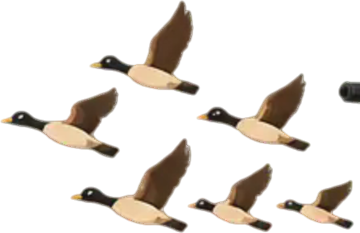
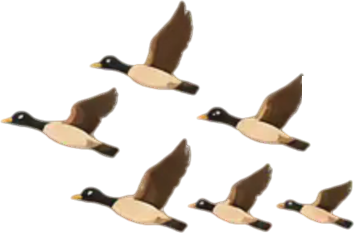
Alas animadas, sol y luna, clima en capas, Belén, tamaños y ajustes de Santa/Grinch
Claude-Session: https://claude.ai/code/session_01HzcLU7UAVJ8SL338GQnGNt

Changed region(s): [[0.9167, 0.3305, 1.0, 0.4506], [0.825, 0.3305, 0.8556, 0.4206]]

diff --git a/index.html b/index.html
@@ -43,6 +43,12 @@
   .scene .sky{position:absolute;inset:0;transition:opacity 8s ease-in-out}
   .scene .sky.day{background:linear-gradient(180deg,#3E8FD9 0%,#7CC5F2 60%,#BFE6FF 100%);opacity:0}
   .scene.day .sky.day{opacity:1}
+  .scene .sun{position:absolute;left:80%;top:24%;width:34px;height:34px;border-radius:50%;background:radial-gradient(circle at 45% 40%,#FFFBE6 0%,#FFE98A 55%,#FFC83D 100%);box-shadow:0 0 14px 6px rgba(255,225,120,.55),0 0 40px 18px rgba(255,210,90,.22);transform:translate(-50%,-50%);animation:drift 70s ease-in-out infinite alternate}
+  .scene .moon{position:absolute;left:80%;top:24%;width:30px;height:30px;transform:translate(-50%,-50%);filter:drop-shadow(0 0 6px rgba(255,244,207,.55));animation:drift 80s ease-in-out infinite alternate}
+  .scene .moon svg{width:100%;height:100%;display:block}
+  .scene .moon .sh{transform:translateX(var(--mx,0px));transition:transform 1s}
+  .scene .moon.p0{opacity:.55}
+  @keyframes drift{from{transform:translate(-50%,-50%)}to{transform:translate(-50%,calc(-50% - 7px)) translateX(-10px)}}
   .scene .starswrap{position:absolute;inset:0;transition:opacity 8s ease-in-out;pointer-events:none}
   .scene.day .starswrap{opacity:0}
   .scene .layer{position:absolute;inset:0;background-repeat:repeat-x;background-size:400px 100%}
@@ -52,7 +58,14 @@
   @keyframes twinkle{0%,100%{opacity:.95}50%{opacity:.25}}
   .scene .belen{position:absolute;left:22%;top:13%;width:26px;height:34px;transform:translate(-50%,-50%);animation:belen 4s ease-in-out infinite}
   .scene .belen svg{display:block;width:100%;height:100%;overflow:visible}
-  @keyframes belen{0%,100%{transform:translate(-50%,-50%) scale(1);filter:drop-shadow(0 0 4px rgba(255,240,180,.8))}50%{transform:translate(-50%,-50%) scale(1.12);filter:drop-shadow(0 0 9px rgba(255,240,180,1))}}
+  @keyframes belen{0%,100%{transform:translate(-50%,-50%) scale(1);filter:drop-shadow(0 0 7px rgba(255,240,180,.95)) drop-shadow(0 0 16px rgba(255,230,150,.6))}50%{transform:translate(-50%,-50%) scale(1.14);filter:drop-shadow(0 0 13px rgba(255,240,180,1)) drop-shadow(0 0 26px rgba(255,230,150,.85))}}
+  .scene .belen .rays{transform-box:fill-box;transform-origin:center;animation:belenrays 2.6s ease-in-out infinite alternate}
+  .scene .belen .rays2{transform-box:fill-box;transform-origin:center;animation:belenspin 14s linear infinite}
+  .scene .belen .tw{transform-box:fill-box;transform-origin:center;animation:beltw 1.3s ease-in-out infinite alternate}
+  .scene .belen .tw:nth-child(2){animation-delay:-.5s} .scene .belen .tw:nth-child(3){animation-delay:-.9s}
+  @keyframes belenrays{from{transform:scale(.85) rotate(-6deg);opacity:.75}to{transform:scale(1.18) rotate(6deg);opacity:1}}
+  @keyframes belenspin{to{transform:rotate(360deg)}}
+  @keyframes beltw{from{transform:scale(.5);opacity:.4}to{transform:scale(1.3);opacity:1}}
   .scene .fugaz{position:absolute;width:90px;height:2px;border-radius:2px;background:linear-gradient(90deg,rgba(255,255,255,0),#fff);transform-origin:100% 50%;transform:rotate(-20deg);opacity:0;animation:fugaz 1.3s ease-out forwards;pointer-events:none}
   @keyframes fugaz{0%{opacity:0;transform:rotate(-20deg) translateX(0)}10%{opacity:1}100%{opacity:0;transform:rotate(-20deg) translateX(-260px)}}
   .scene .plane{position:absolute;z-index:3;left:38%;top:50%;width:147px;height:auto;transform:translate(-50%,-50%);animation:fly 5s ease-in-out infinite;filter:drop-shadow(0 6px 6px rgba(0,0,0,.35))}
@@ -60,12 +73,22 @@
   .scene.sm{height:110px} .scene.sm .plane{width:105px}
   @keyframes pass{to{transform:translateX(-720px)}}
   /* lluvia y nieve suaves, cada tanto */
-  .scene .weather{position:absolute;inset:-30% -10% 0 -10%;z-index:5;pointer-events:none;opacity:0;transition:opacity 4s ease;background-repeat:repeat}
+  .scene .weather{position:absolute;inset:-30% -10% 0 -10%;z-index:5;pointer-events:none;opacity:0;transition:opacity 4s ease}
   .scene .weather.on{opacity:1}
-  .scene .weather.rain{background-image:radial-gradient(1px 9px at 20px 12px,rgba(255,255,255,.55),transparent),radial-gradient(1px 8px at 64px 40px,rgba(255,255,255,.45),transparent),radial-gradient(1px 10px at 100px 70px,rgba(255,255,255,.5),transparent),radial-gradient(1px 7px at 140px 25px,rgba(255,255,255,.4),transparent);background-size:120px 80px;transform:rotate(9deg) scale(1.2);animation:rain .55s linear infinite}
-  @keyframes rain{to{background-position:0 90px}}
-  .scene .weather.snow{background-image:radial-gradient(2.5px 2.5px at 18px 20px,#fff,transparent),radial-gradient(2px 2px at 70px 60px,rgba(255,255,255,.85),transparent),radial-gradient(3px 3px at 120px 30px,#fff,transparent),radial-gradient(2px 2px at 150px 100px,rgba(255,255,255,.8),transparent),radial-gradient(2.5px 2.5px at 45px 110px,#fff,transparent),radial-gradient(2px 2px at 100px 130px,rgba(255,255,255,.8),transparent);background-size:130px 120px;animation:snow 5s linear infinite}
-  @keyframes snow{0%{background-position:0 0}50%{background-position:14px 75px}100%{background-position:0 150px}}
+  .scene .weather .wl{position:absolute;inset:0;background-repeat:repeat}
+  .scene .weather.rain .wl{background-image:radial-gradient(1px 9px at 20px 12px,rgba(255,255,255,.55),transparent),radial-gradient(1px 8px at 64px 40px,rgba(255,255,255,.45),transparent),radial-gradient(1px 10px at 100px 70px,rgba(255,255,255,.5),transparent),radial-gradient(1px 7px at 140px 25px,rgba(255,255,255,.4),transparent);background-size:120px 80px}
+  .scene .weather.rain{transform:rotate(9deg) scale(1.2)}
+  .scene .weather.rain .l1{animation:rainA .42s linear infinite;opacity:.95}
+  .scene .weather.rain .l2{background-size:170px 120px;animation:rainB .7s linear infinite;opacity:.6}
+  .scene .weather.rain .l3{background-size:230px 160px;animation:rainC 1.05s linear infinite;opacity:.35}
+  @keyframes rainA{to{background-position:0 80px}} @keyframes rainB{to{background-position:0 120px}} @keyframes rainC{to{background-position:0 160px}}
+  .scene .weather.snow .wl{background-image:radial-gradient(2.5px 2.5px at 18px 20px,#fff,transparent),radial-gradient(2px 2px at 70px 60px,rgba(255,255,255,.85),transparent),radial-gradient(3px 3px at 120px 30px,#fff,transparent),radial-gradient(2px 2px at 150px 100px,rgba(255,255,255,.8),transparent),radial-gradient(2.5px 2.5px at 45px 110px,#fff,transparent),radial-gradient(2px 2px at 100px 130px,rgba(255,255,255,.8),transparent);background-size:130px 120px}
+  .scene .weather.snow .l1{animation:snowA 4s linear infinite}
+  .scene .weather.snow .l2{background-size:190px 170px;animation:snowB 7.5s linear infinite;opacity:.7}
+  .scene .weather.snow .l3{background-size:90px 80px;animation:snowC 11s linear infinite;opacity:.45;filter:blur(.4px)}
+  @keyframes snowA{0%{background-position:0 0}50%{background-position:16px 120px}100%{background-position:0 240px}}
+  @keyframes snowB{0%{background-position:0 0}50%{background-position:-22px 170px}100%{background-position:0 340px}}
+  @keyframes snowC{0%{background-position:0 0}50%{background-position:10px 80px}100%{background-position:0 160px}}
   /* objetos que pasan volando (sprites del usuario) con efectos animados */
   .scene .obj{position:absolute;left:100%;animation:pass linear forwards;will-change:transform;line-height:0}
   .scene .obj > img{display:block;width:100%;height:auto}
@@ -86,6 +109,8 @@
   @keyframes rotor{0%{transform:scaleX(1);opacity:.9}50%{transform:scaleX(.12);opacity:.5}100%{transform:scaleX(1);opacity:.9}}
   /* Papá Noel: renos con vuelo propio, regalos que caen */
   .scene .obj .part{position:absolute;top:0;animation:hover ease-in-out infinite alternate}
+  .scene .obj .part img.wing{position:absolute;left:0;top:0;width:100%;animation:flap ease-in-out infinite alternate}
+  @keyframes flap{from{transform:scaleY(1) rotate(0)}to{transform:scaleY(.28) rotate(-4deg)}}
   .scene .obj .part img{display:block;width:100%;height:auto}
   @keyframes hover{from{transform:translateY(-4%)}to{transform:translateY(5%)}}
   .scene .gift{position:absolute;z-index:4;animation:giftx 2.6s linear forwards;pointer-events:none}
@@ -394,7 +419,7 @@ function voucher(v, returning){
 
 /* ---------- Escena: el avión vuela hacia la derecha; el cielo y lo que pasa se mueven en contra ---------- */
 function scene(cls=""){
-  return `<div class="scene ${cls}${sceneDay?" day":""}" id="scene"><div class="sky day"></div><div class="starswrap"><div class="layer stars"></div><div class="layer stars b"></div><span class="belen"><svg viewBox="-20 -20 40 52"><defs><radialGradient id="bg1"><stop offset="0" stop-color="#FFF6D0" stop-opacity=".9"/><stop offset="1" stop-color="#FFF6D0" stop-opacity="0"/></radialGradient><linearGradient id="bt" x1="0" y1="0" x2="0" y2="1"><stop offset="0" stop-color="#FFF3C4" stop-opacity=".9"/><stop offset="1" stop-color="#FFF3C4" stop-opacity="0"/></linearGradient></defs><circle r="13" fill="url(#bg1)"/><circle r="9" fill="none" stroke="#FFF3C4" stroke-opacity=".35" stroke-width=".8"/><path d="M-1.6 4L0 30L1.6 4Z" fill="url(#bt)"/><path d="M0 -18L2.4 -2.4L12 0L2.4 2.4L0 12L-2.4 2.4L-12 0L-2.4 -2.4Z" fill="#FFE9A3"/><path d="M0 -18L2.4 -2.4L12 0L2.4 2.4L0 12L-2.4 2.4L-12 0L-2.4 -2.4Z" fill="#FFF3C4"/><path d="M-6.5 -6.5L-1.2 -1.2L0 0L-1.2 1.2L-6.5 6.5L-1.2 1.2L0 0L1.2 -1.2Z M6.5 -6.5L1.2 -1.2L0 0L1.2 1.2L6.5 6.5L1.2 1.2L0 0L-1.2 1.2Z" fill="#FFF3C4" fill-opacity=".8"/><path d="M0 -8L1 -1L8 0L1 1L0 8L-1 1L-8 0L-1 -1Z" fill="#fff"/><g fill="#FFF3C4"><path d="M-14 -11L-13.3 -9.3L-11.6 -8.6L-13.3 -7.9L-14 -6.2L-14.7 -7.9L-16.4 -8.6L-14.7 -9.3Z"/><path d="M13 -13L13.6 -11.6L15 -11L13.6 -10.4L13 -9L12.4 -10.4L11 -11L12.4 -11.6Z"/><path d="M12 9L12.5 10.2L13.7 10.7L12.5 11.2L12 12.4L11.5 11.2L10.3 10.7L11.5 10.2Z"/></g></svg></span></div><img class="plane" src="/plane.png" alt="" width="760" height="224"><div class="weather" id="weather"></div></div>`;
+  return `<div class="scene ${cls}${sceneDay?" day":""}" id="scene"><div class="sky day"><span class="sun"></span></div><div class="starswrap"><span class="moon p2" id="moon"><svg viewBox="-20 -20 40 40"><circle r="14" fill="#FFF4CF"/><circle r="4" cx="-4" cy="-3" fill="#EFE2B8" opacity=".5"/><circle r="2.5" cx="5" cy="4" fill="#EFE2B8" opacity=".5"/><circle r="1.6" cx="2" cy="-7" fill="#EFE2B8" opacity=".5"/><circle class="sh" r="14.6" fill="#141A4A"/><circle r="14" fill="none" stroke="#FFF4CF" stroke-opacity=".45" stroke-width=".7"/></svg></span><div class="layer stars"></div><div class="layer stars b"></div><span class="belen"><svg viewBox="-20 -20 40 52"><defs><radialGradient id="bg1"><stop offset="0" stop-color="#FFF6D0" stop-opacity=".9"/><stop offset="1" stop-color="#FFF6D0" stop-opacity="0"/></radialGradient><linearGradient id="bt" x1="0" y1="0" x2="0" y2="1"><stop offset="0" stop-color="#FFF3C4" stop-opacity=".9"/><stop offset="1" stop-color="#FFF3C4" stop-opacity="0"/></linearGradient></defs><circle r="13" fill="url(#bg1)"/><circle r="9" fill="none" stroke="#FFF3C4" stroke-opacity=".35" stroke-width=".8"/><path d="M-1.6 4L0 30L1.6 4Z" fill="url(#bt)"/><g class="rays"><path d="M0 -18L2.4 -2.4L12 0L2.4 2.4L0 12L-2.4 2.4L-12 0L-2.4 -2.4Z" fill="#FFE9A3"/></g><path d="M0 -18L2.4 -2.4L12 0L2.4 2.4L0 12L-2.4 2.4L-12 0L-2.4 -2.4Z" fill="#FFF3C4"/><g class="rays2"><path d="M-6.5 -6.5L-1.2 -1.2L0 0L-1.2 1.2L-6.5 6.5L-1.2 1.2L0 0L1.2 -1.2Z M6.5 -6.5L1.2 -1.2L0 0L1.2 1.2L6.5 6.5L1.2 1.2L0 0L-1.2 1.2Z" fill="#FFF3C4" fill-opacity=".8"/></g><path d="M0 -8L1 -1L8 0L1 1L0 8L-1 1L-8 0L-1 -1Z" fill="#fff"/><g fill="#FFF3C4"><path class="tw" d="M-14 -11L-13.3 -9.3L-11.6 -8.6L-13.3 -7.9L-14 -6.2L-14.7 -7.9L-16.4 -8.6L-14.7 -9.3Z"/><path class="tw" d="M13 -13L13.6 -11.6L15 -11L13.6 -10.4L13 -9L12.4 -10.4L11 -11L12.4 -11.6Z"/><path class="tw" d="M12 9L12.5 10.2L13.7 10.7L12.5 11.2L12 12.4L11.5 11.2L10.3 10.7L11.5 10.2Z"/></g></svg></span></div><img class="plane" src="/plane.png" alt="" width="760" height="224"><div class="weather" id="weather"><div class="wl l1"></div><div class="wl l2"></div><div class="wl l3"></div></div></div>`;
 }
 // Nubes con varios lóbulos, sombra suave abajo y brillo arriba
 const CLOUDS = [
@@ -419,9 +444,14 @@ const FX = {
   rotor:(x,y,s)=>`<i class="fx" style="left:${x}%;top:${y}%"><span class="rotor" style="--s:${s}em"></span></i>`
 };
 const RED="#FF3B3B", GRN="#3BFF7A", WHT="#FFFFFF";
+// alas que aletean: [pivotes en % por ala, duración del aleteo en s]
+const WINGS = {
+  gansos:[[[44,34],[28,53],[15,56],[72,49],[42,81],[67,83],[92,85]], .42],
+  ciguena:[[[62,48]], .75], pterodactilo:[[[48,58],[57,54]], 1.1], pegaso:[[[60,49]], .85], colibri:[[[56,47]], .07]
+};
 const OBJS = [
   ["xwing",28, FX.flame(96,30,16,180)+FX.flame(96,70,16,180)],
-  ["tie",20,""], ["enterprise",190, FX.glow(98,22,10,8,180)+FX.glow(76,84,8,6,180)], ["falcon",74, FX.glow(99,50,12,30,180)],
+  ["tie",20,""], ["enterprise",95, FX.glow(98,22,10,8,180)+FX.glow(76,84,8,6,180)], ["falcon",74, FX.glow(99,50,12,30,180)],
   ["hubble",30, FX.blink(36,3,RED)+FX.blink(36,97,GRN,.5)+FX.blink(90,48,WHT,1)],
   ["gansos",30,""], ["boba",18, FX.flame(98,52,22,180)], ["superman",18,""], ["et",18,""], ["frisbee",12,""], ["pelota",12,""],
   ["dron",12, FX.rotor(12,7,30)+FX.rotor(86,7,30)],
@@ -429,7 +459,7 @@ const OBJS = [
   ["webb",44, FX.blink(50,4,RED)+FX.blink(8,80,GRN,.7)+FX.blink(95,80,WHT,1.3)],
   ["iss",170, FX.blink(3,30,RED)+FX.blink(97,30,GRN,.5)+FX.blink(50,42,WHT,1)],
   ["grinch",20, FX.prop(4,50,30,.25)], ["helicoptero",28, FX.rotor(47,17,70)+FX.prop(94,50,14,.2)], ["globo",40,""], ["avionpapel",12,""], ["parapente",22,""], ["wingsuit",18,""],
-  ["saturn",30, FX.flame(50,99,40,-90)],
+  ["saturn",70, FX.flame(99,50,40,180)],
   ["acrobatico",18, FX.prop(5,47,30,.25)], ["ciguena",14,""], ["plusultra",46, FX.prop(16,20,22,.3)], ["spirit",30, FX.prop(6,50,28,.25)],
   ["aladelta",22,""], ["wright",26, FX.prop(44,52,22,.25)],
   ["sputnik",12, FX.blink(44,42,RED)+FX.blink(56,52,WHT,.6)], ["pterodactilo",22,""],
@@ -490,36 +520,40 @@ function startScene(){
     flyCount++;
     const front = Math.random() < 0.5, dur = (9 + Math.random()*5) * (1 + Math.random()*0.5), top = 4 + Math.random()*50;
     if(flyCount % 5 === 0){
-      // Papá Noel: renos con vuelo propio, regalos cada tanto y, la mitad de las veces, el Grinch persiguiéndolo
+      // Papá Noel: renos con vuelo propio, regalos cada tanto y, 1 de cada 5 veces, el Grinch persiguiéndolo
       const w = 64 * (0.9 + Math.random()*0.3) * (front ? 1.25 : 0.85);
       const santa = spawn(santaHTML(), w, Math.min(top, 30), dur, front);
-      // 3 regalos por pasada, al 25 %, 50 % y 75 % del recorrido
-      [0.25, 0.5, 0.75].forEach(f=>sceneTimers.push(setTimeout(()=>{ const s = sc(); if(!s || !santa || !santa.isConnected) return;
+      // 3 regalos por pasada, de a tres (una ráfaga a mitad del recorrido)
+      const gf = 0.4 + Math.random()*0.2;
+      [gf, gf + 0.18/dur, gf + 0.36/dur].forEach((f,gi)=>sceneTimers.push(setTimeout(()=>{ const s = sc(); if(!s || !santa || !santa.isConnected) return;
         // el regalo sale del trineo, sigue el avance horizontal y cae con gravedad hasta salir por abajo
         const sr = santa.getBoundingClientRect(), r = s.getBoundingClientRect();
         const g = document.createElement("i"); g.className = "gift"; g.innerHTML = `<i>${GIFTS[Math.floor(Math.random()*GIFTS.length)]}</i>`;
         g.style.left = (sr.left - r.left + sr.width*0.8) + "px"; g.style.top = (sr.top - r.top + sr.height*0.55) + "px"; g.style.width = Math.max(8, Math.round(w*0.13)) + "px";
-        g.style.setProperty("--dx", (-720/dur*2.6*0.9).toFixed(0) + "px");
+        g.style.setProperty("--dx", (-720/dur*2.6*(0.8 + gi*0.12)).toFixed(0) + "px");
         g.addEventListener("animationend", e=>{ if(e.target === g) g.remove(); }); s.appendChild(g); }, dur*1000*f)));
-      if(Math.random() < 0.5){
+      if(Math.random() < 0.2){
         // el Grinch aparece por la derecha, bastante atrás, con su propio vaivén
         const g = OBJS.find(o=>o[0]==="grinch");
-        spawn(`<span class="part" style="left:0;width:100%;animation-duration:1.1s"><img src="/obj/grinch.png" alt="">${g[2]}</span>`, w*0.4, Math.min(top, 30) + 6, dur, front, 2.6);
+        spawn(`<span class="part" style="left:0;width:100%;animation-duration:1.1s"><img src="/obj/grinch.png" alt="">${g[2]}</span>`, w*0.4, Math.min(top, 30) + 6, dur*0.86, front, 4.2); // sale más atrás y, al ir más rápido, se va acercando
       }
     }else{
       const [name, base, fx] = nextObj();
-      const w = Math.max(10, Math.round(base * (0.8 + Math.random()*0.4) * (front ? 1.25 : 0.85)));
+      const w = Math.max(12, Math.round((base < 30 ? base*1.2 : base) * (0.8 + Math.random()*0.4) * (front ? 1.25 : 0.85))); // los chicos, un 20 % más
       const img = new Image(); img.src = `/obj/${name}.png`;
       // todo tiene un vaivén sutil, nada pasa recto
-      const go = ()=>spawn(`<span class="part" style="left:0;width:100%;animation-duration:${(1.6+Math.random()*1.8).toFixed(2)}s"><img src="/obj/${name}.png" alt="">${fx}</span>`, w, top, dur, front);
+      const wg = WINGS[name];
+      const body = wg ? `<img src="/obj/${name}_body.png" alt="">` + wg[0].map((p,i)=>`<img class="wing" src="/obj/${name}_w${i+1}.png" alt="" style="transform-origin:${p[0]}% ${p[1]}%;animation-duration:${wg[1]}s;animation-delay:-${(Math.random()*wg[1]).toFixed(2)}s">`).join("") : `<img src="/obj/${name}.png" alt="">`;
+      const go = ()=>spawn(`<span class="part" style="left:0;width:100%;animation-duration:${(1.6+Math.random()*1.8).toFixed(2)}s">${body}${fx}</span>`, w, top, dur, front);
       if(img.complete) go(); else { img.onload = go; img.onerror = ()=>{}; }
     }
-    sceneTimers.push(setTimeout(thing, 10000 + Math.random()*5000)); };
+    sceneTimers.push(setTimeout(thing, 12000 + Math.random()*6000)); };
   const shooting = ()=>{ const s = sc(); if(!s || sceneDay) return;
     const f = document.createElement("i"); f.className = "fugaz"; f.style.left = (30 + Math.random()*60) + "%"; f.style.top = (8 + Math.random()*30) + "%";
     f.addEventListener("animationend", ()=>f.remove()); s.querySelector(".starswrap").appendChild(f); };
   const dayNight = ()=>{ const s = sc(); if(!s) return;
     sceneDay = !sceneDay; s.classList.toggle("day", sceneDay);
+    if(!sceneDay){ const m = $("#moon"); if(m){ const ph = Math.floor(Math.random()*4); m.className = "moon p" + ph; m.style.setProperty("--mx", ["0px","-9px","40px","9px"][ph]); } } // luna: nueva, creciente, llena, menguante
     if(!sceneDay && Math.random() < 0.5) sceneTimers.push(setTimeout(shooting, 6000 + Math.random()*20000)); // la mitad de las noches, una estrella fugaz
     sceneTimers.push(setTimeout(dayNight, 33000)); };
   const weather = ()=>{ const s = sc(), w = $("#weather"); if(!s || !w) return;
